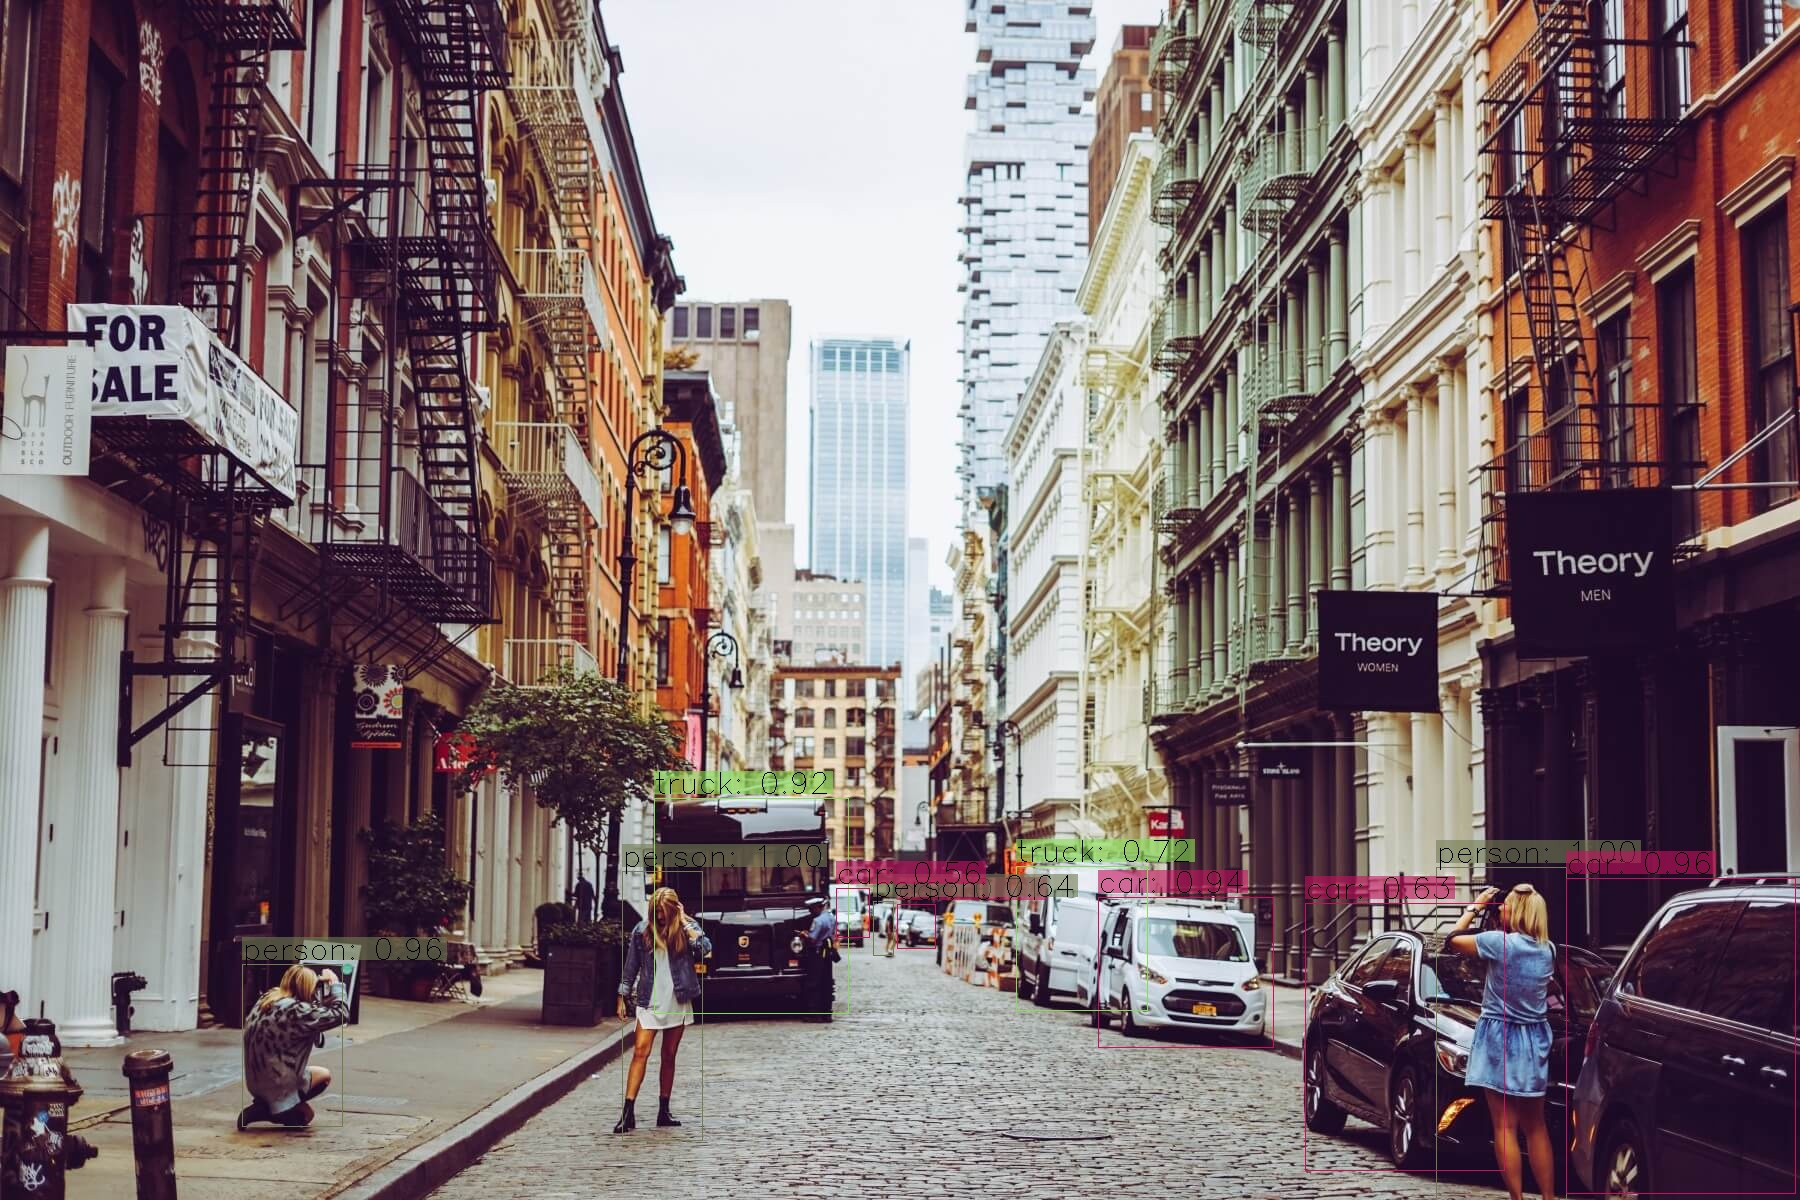
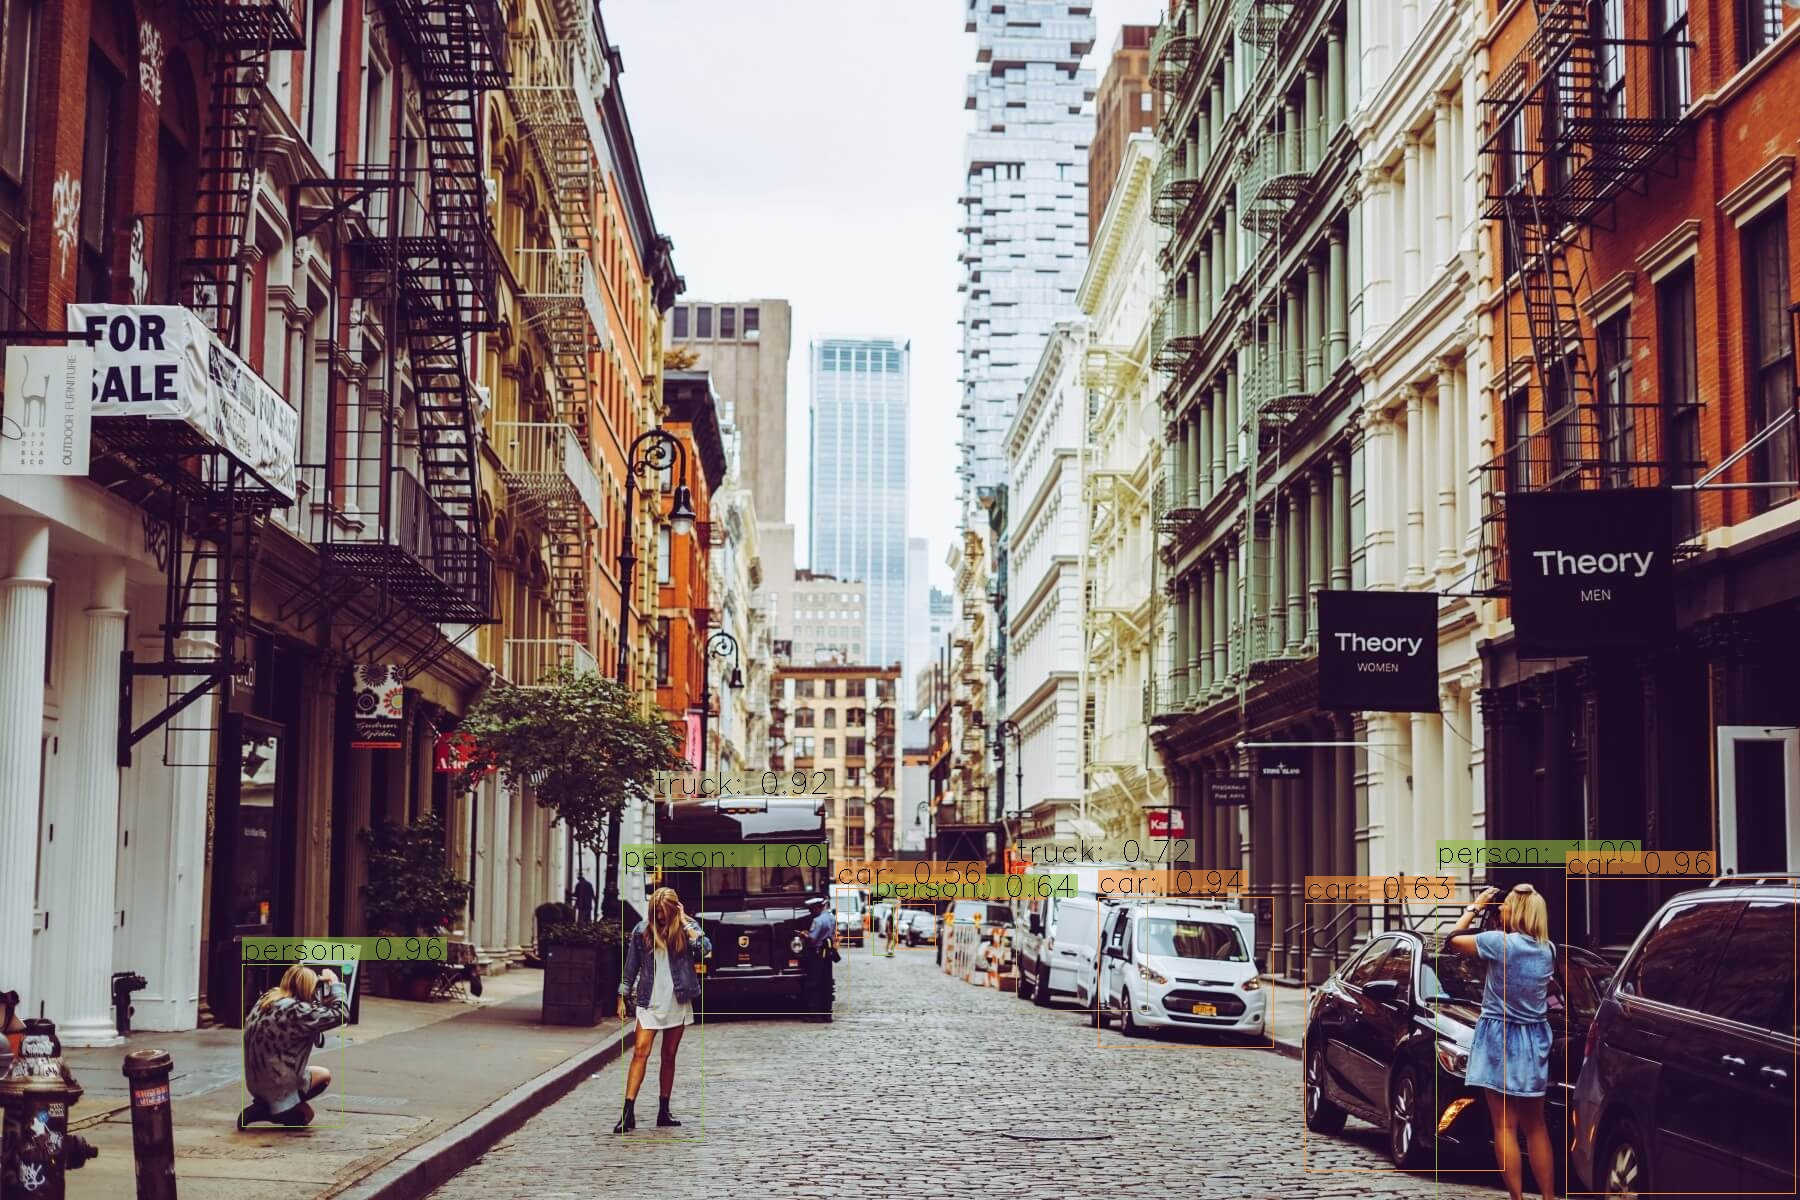
adding realtime

Changed region(s): [[0.3422, 0.6167, 0.9644, 0.8017], [0.8711, 0.74, 1.0, 1.0], [0.1244, 0.7708, 0.2489, 0.8017]]

diff --git a/yolo.py b/yolo.py
@@ -78,4 +78,11 @@ def yolo_detect(image):
             cv2.putText(image, text, (x, y - 5), cv2.FONT_HERSHEY_SIMPLEX,
                 fontScale=font_scale, color=(0, 0, 0), thickness=thickness)
 
-            return image
+    return image
+
+path_name = "images/street.jpg"
+image = cv2.imread(path_name)
+file_name = os.path.basename(path_name)
+filename, ext = file_name.split(".")
+image = yolo_detect(image)
+cv2.imwrite("results/" + filename +"_yolo3." + ext, image )
